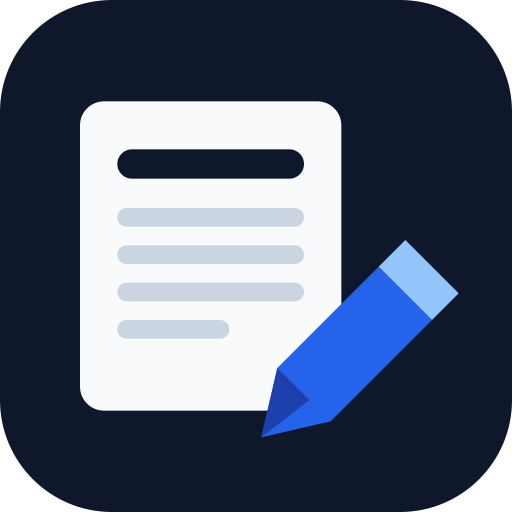
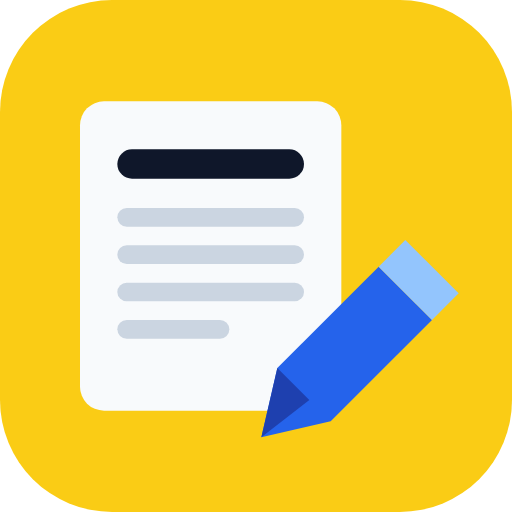
아이콘 배경색을 검은색에서 노란색으로 변경
icon.svg / icon-maskable.svg 의 배경 rect 를 #0f172a → #facc15 로
바꾸고 PNG 4종(192/512/maskable-512/apple-touch)을 재생성했다.
문서·연필 요소는 흰 종이 위에 있어 대비가 유지되므로 그대로 뒀다.

서비스워커가 아이콘을 캐시하므로 캐시 이름을 v2 → v3 로 올렸다.
올리지 않으면 기존 사용자에게 검은 아이콘이 계속 보인다.

diff --git a/sw.js b/sw.js
@@ -1,6 +1,6 @@
 // 앱 셸 오프라인 캐시. 캐시 이름을 바꾸면 옛 캐시는 자동 폐기된다.
 // API 호출(api.anthropic.com)은 절대 가로채지 않는다 — 항상 네트워크로 직행.
-const CACHE = 'blog-writer-v2';
+const CACHE = 'blog-writer-v3';
 const CORE = [
   './', './index.html', './assets/app.css', './assets/agents.js', './assets/app.js',
   './manifest.webmanifest', './assets/icon.svg', './assets/icon-192.png', './assets/icon-512.png',
